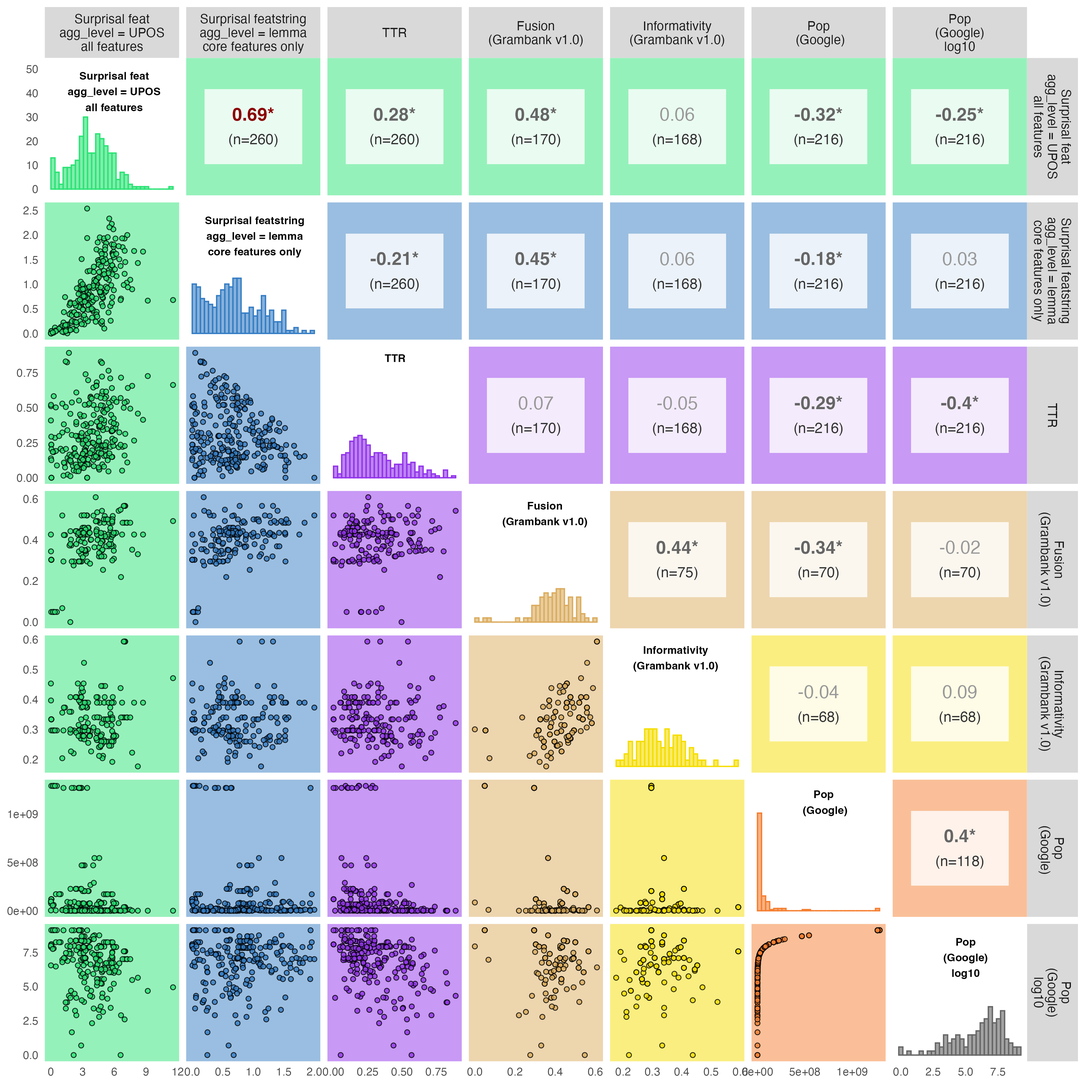
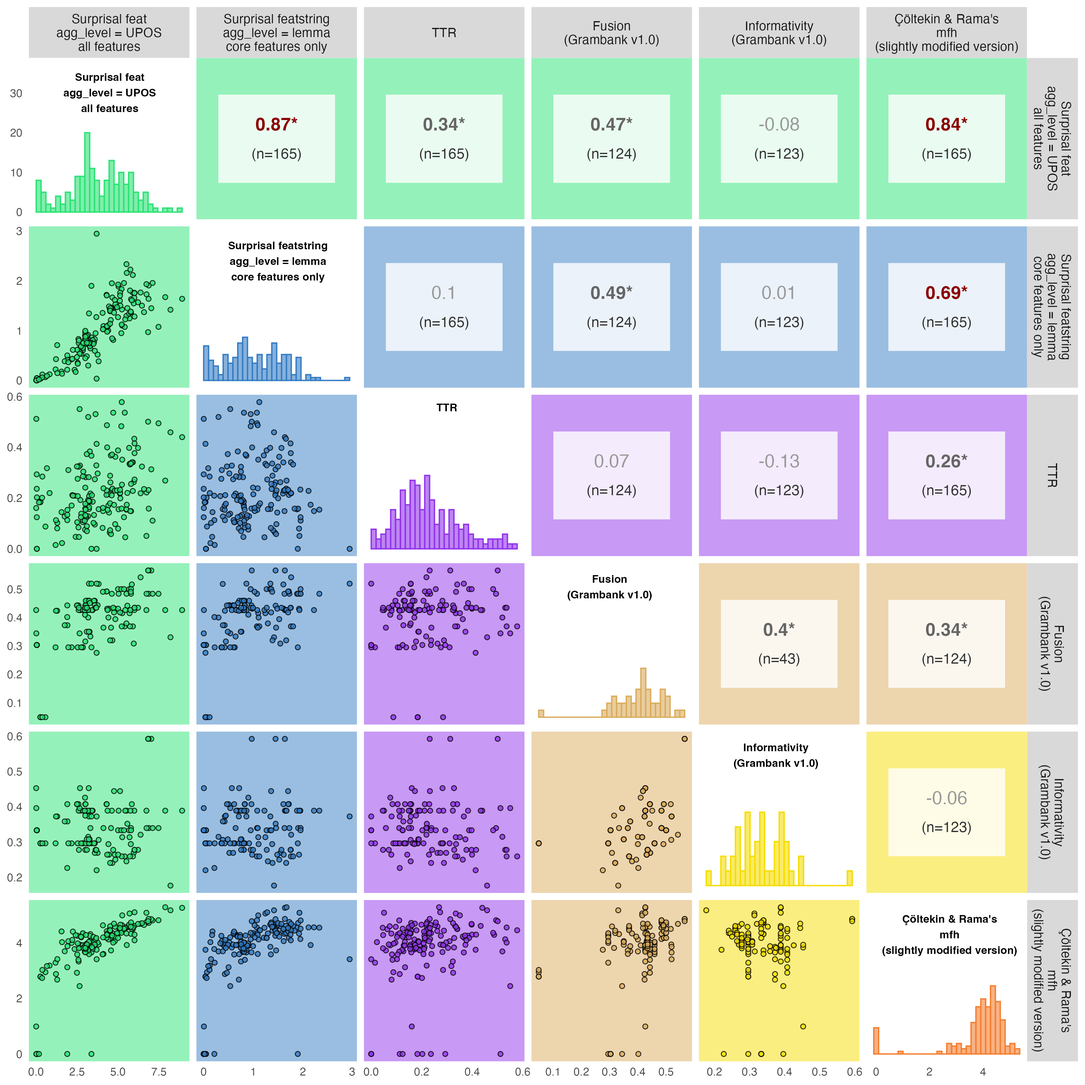
Updates from Overleaf

diff --git a/latex/main.tex b/latex/main.tex
@@ -10,9 +10,9 @@
 %to do
 % Hedvig: ridgeplots
 
-% what UD says about multivalues (Gender=Masc,Fem): "It is possible to declare that a feature has two or more values for a given word: Case=Acc,Dat. The interpretation is that the word may have one of these values but we cannot decide between them. Such multivalues should be used sparingly. They should not be used if the value list would cover the whole value space, or the subspace valid for the given language. That would mean that we cannot tell anything about this feature for the given word, and then it is preferable to just leave the feature out." 
+% what UD says about multivalues (Gender=Masc,Fem): ``It is possible to declare that a feature has two or more values for a given word: Case=Acc,Dat. The interpretation is that the word may have one of these values but we cannot decide between them. Such multivalues should be used sparingly. They should not be used if the value list would cover the whole value space, or the subspace valid for the given language. That would mean that we cannot tell anything about this feature for the given word, and then it is preferable to just leave the feature out.''
 
-% what UD says about "missing" features: "Not mentioning a feature in the data implies the empty value, which means that the feature is either irrelevant for this part of speech, or its value cannot be determined for this word form due to language-specific reasons." https://universaldependencies.org/u/overview/morphology.html
+% what UD says about `missing' features: ``Not mentioning a feature in the data implies the empty value, which means that the feature is either irrelevant for this part of speech, or its value cannot be determined for this word form due to language-specific reasons.'' https://universaldependencies.org/u/overview/morphology.html
 
 % Define fonts for non-latin characters
 \newfontfamily\Timesfont{Times New Roman}
@@ -100,15 +100,6 @@ While the English language does not have such a grammatical distinction in its p
 In S\={a}moan, the distinction is made every time ``we'' is expressed, and the grammar of S\={a}moan therefore entails a higher degree of information specificity in this particular regard.
 Conversely, there is other information that English grammar specifies which S\={a}moan does not, such as masculine/feminine gender on 3rd person pronouns.
 
-We can compare languages in terms of how much information is specified obligatorily in grammar. 
-In this paper we use cross-linguistic corpora to quantify this kind of morphological information and compare values across languages.
-While grammatical descriptions document the rules of a given language, corpora have the advantage of providing information about the frequency of different features in actual usage (cf. \citet{levshina_gradient}, Saussure's \textit{langue} and \textit{parôle} \citet{Saussure1916}).
-%%% SFM word chopping
-% For example, it is possible that a particular grammatical distinction exists in a language such that there are two alternatives, but 90\% of the time speakers just use one alternative. 
-% In an information-theoretic sense, such a distinction is less informative than one with balanced frequencies: it is easier to predict that a high-frequency alternative will occur, so its occurrence is less informative.
-%%% SFM end word chopping
-Informational distinctiveness in grammar -- both in rules and usage -- is one of the phenomena that can be described as measuring ``language complexity''.
-Before presenting our approach, we give a brief overview of research on ``language complexity'' and where this study is situated in this landscape.
 
  \section{Background: defining language complexity}\label{sec:background}
 % \subsection{``Language complexity''}
@@ -149,7 +140,7 @@ redundancy  & how much information is repeated & \cite{leufkens2023measuring}\\ 
 systematicity/ transparency  & the degree of consistency of form to meaning patterns & \cite{raviv2019larger}; \cite{hengeveld2018transparent} \\    \midrule
 regularity & the consistency of rules, for example in paradigms &  \cite{round2022cognition}‚ \cite{ackerman2009parts}; \cite{cotterell2019complexity} \\    \midrule
 compositionality  & the extent to which the meaning of larger units is built from the meanings of smaller parts &  \cite{wray2007consequences} \\    \midrule
-compressibility  & how much a computer algorithm can compress language material &  \cite{juola1998measuring} \\    \midrule
+Kolmogorov complexity  & how much a computer algorithm can compress language material &  \cite{juola1998measuring,ehret2016informationtheoretic,moscosodelpradomartin2004putting,sagot2013comparing} \\    \midrule
 ease of LLM-learning  & how easy is it for a large language model (LLM) to learn the language &  \cite{koplenig2023languages}  \\    \midrule
 length of syntactic dependencies  &  how nested the syntactical structure is (tax on short-term memory) & \cite{gibson1998linguistic}; \citet{liu2008dependency} \\    
 \midrule
@@ -160,39 +151,51 @@ shared types & the total number of population-wide shared types &  \citet{spike2
     \label{tab:complex_metrics}
 \end{table}
 
-We think these measures can be grouped into four broader categories relating to the nebulous notion of `linguistic complexity' (Fig \ref{fig:metrics_diagram}):
-%%% SFM word chopping
-% It is possible that these different measurements map onto different broader characteristics related to `language complexity'.
-% We propose that many of these measurements can be grouped into four broader categories which have different implications for specific research questions:
-%%% SFM end word chopping
-
-\begin{itemize}
-\item ease of learning the language as (one of) a child's first language(s)
-\item ease of learning as an additional language when adult
-\item ease of production for sender (`encoding complexity')
-\item ease of processing/comprehension for receiver (`decoding complexity')
-\end{itemize}
-\FloatBarrier
-
-These four categories are not usually measured directly, instead being estimated with proxy measurements derived from typological grammar surveys, corpora, experiments and simulations. 
-Fig \ref{fig:metrics_diagram} illustrates speculative connections between measurements and the four broader categories. 
-The intention here is not to provide an exhaustive or definite account of these relationships, but to illustrate the plethora of ``language complexity'' studies (cf. \citet{bentz2023complexity}) and suggest lines along which they may be organised.
 Depending on the particular research question being evaluated, it is desirable to specify what aspect of `language complexity' is being evaluated and how it is operationalised into specific measurement(s). %(``does a large proportion of second language learners reduce complexity?'', ``is language complexity primarily shaped by production or perception?'', ``do more modular networks create more complexity?'' etc), it is desirable to specify what facet of ``language complexity'' is being evaluated and how it is operationalised into specific measurement(s).
+ %\begin{enumerate}
+ %    \item More morphology -> more complexity (citations needed)
+ %    \item It is desirable to measure complexity via measuring morphology
+ %    \item What we want to measure is better measured by studying corpora rather than rules
+ %    \item Because of (2) we want to use something mathematical and (3) we use corpus
+ %\end{enumerate}
 
-\begin{figure}[ht]
-    \centering
-    \includegraphics[width=0.9\textwidth]{latex/graphics/ud_complexity_metrics.png} % Change filename and width as needed
-    \caption{Methods of quantifying language complexity, and their possible relationships with four overarching aspects which are typically not directly measured.}
-    \label{fig:metrics_diagram}
-\end{figure}
-\FloatBarrier
+A language with a rich morphology often exhibits more unique words compared to a language with less grammatical marking overall, or grammatical marking that is free-standing.
+Morphological marking is also not necessarily compositional: paradigms can include suppletion, vowel harmony and other non-compositional patterns.
+In this sense, languages with more unique word forms and richer paradigmatic patterns to learn and process instantiate one dimension of language complexity (c.f. \citet{baerman2015understanding}, \citet{bentz2016comparison}, \citet{dahl2004growth}).
+Therefore, one way to measure a facet of a language's complexity is to quantify the amount of morphology it contains.
+Many studies have contributed to this discussion by studying the grammatical rules of different languages (cf. \citet{lupyan2010language}, \citet{shcherbakova2023societies}).
+However, a language can have a rich morphological paradigm but when one studies usage it turns out several of the forms are rarely uttered.
+If all forms are not equally used, that paints a different picture of the morphology of the language compared to if we only study the possibilities and implicitly treat them as equally present.
+For example, in Spanish there are three distinctions in the demonstrative system (\emph{este}/\emph{ese}/\emph{acquel} \citet[87]{butt_2019_spanish}\footnote{This is the masculine singular series. The markers differ further for feminine, neuter and plural.}). 
+However, out of these the first two are used the most. 
+In the UD-dataset Spanish-AnCora \citep{aule2008ancora}, \emph{acquel} is used 5\% of the time, \emph{ese} 26\% and \emph{este} 69\%,.
+We find a somewhat similar situation in Turkish, where there are also three distinctions in demonstratives (\emph{bu}, \emph{şu}, \emph{o} \citet[67]{turkish_2020}\footnote{This is the nominative series. The forms differ for further cases.}). 
+In the UD-dataset Turkish-Penn, \emph{bu} accounts for 85\% of occurrences, \emph{o} 9\% and \emph{şu} 6\%.
+Spanish and Turkish can both be said to have three distinctions in their demonstrative paradigms, but usage frequencies differ between the two languages.
+This may mean that the implications for learning and processing also differ.
+Corpora have the advantage of providing information about the frequency of different features in actual usage (cf. \citet{levshina_gradient}, \citet{bentz2016comparison} Saussure's \textit{langue} and \textit{parôle} \citet{Saussure1916}) as opposed to the possibilities of the system.
+
+In this study, we focus on morphological distinctions and their distribution in corpora. 
+
+
+%We can compare languages in terms of how much information is specified obligatorily in grammar. 
+%In this paper we use cross-linguistic corpora to quantify this kind of morphological information and compare values across languages.
+%%% SFM word chopping
+% For example, it is possible that a particular grammatical distinction exists in a language such that there are two alternatives, but 90\% of the time speakers just use one alternative. 
+% In an information-theoretic sense, such a distinction is less informative than one with balanced frequencies: it is easier to predict that a high-frequency alternative will occur, so its occurrence is less informative.
+%%% SFM end word chopping
+Informational distinctiveness in grammar -- both in rules and usage -- is one of the phenomena that can be described as measuring ``language complexity''.
+Before presenting our approach, we give a brief overview of research on ``language complexity'' and where this study is situated in this landscape.
+
+
+
 
 The present study lays the ground for a wider investigation of how systematic pragmatic habits, over time and over language communities, can impact the structure of the language.
 %%% SFM word chopping
 % In particular, we are interested in informational distinctiveness, and the other side of the coin - ambiguity.
 %%% SFM end word chopping
-Several studies have sought to link sociocultural and demographic features with the various facets of linguistic complexity \citep{wray2007consequences,lupyan2010language,shcherbakova2023societies,dale_lupyan_2012}.
-We are interested in exploring how systematic corpus-based cross-linguistic comparison of morphology can contribute to testing the strength of hypotheses relating to pragmatics of common ground \citep{hall1976beyond,cardon2008critique,bentz2015adaptive, meyer2016culture, levinson2024dark}.
+%Several studies have sought to link sociocultural and demographic features with the various facets of linguistic complexity \citep{wray2007consequences,lupyan2010language,shcherbakova2023societies,dale_lupyan_2012}.
+%We are interested in exploring how systematic corpus-based cross-linguistic comparison of morphology can contribute to testing the strength of hypotheses relating to pragmatics of common ground \citep{hall1976beyond,cardon2008critique,bentz2015adaptive, meyer2016culture, levinson2024dark}.
 To that end, in this paper we define metrics of informational distinctiveness of morphological features based on datasets of the Universal Dependencies project \citep{UD_2.14}. 
 
 %%%%%%%%%%%%%%%%%%%%%%%%%%%%%%%%%%%%%
@@ -231,14 +234,18 @@ To that end, in this paper we define metrics of informational distinctiveness of
 % For a thorough examination of the relationships between these metrics of `language complexity' and social conditions, more extensive analysis is necessary.
 
 %In this paper, we are primarily interested in the pragmatics of information transfer between adult native speakers and how the trade-off between the encoding and decoding cost is balanced in different languages. Specifically, we are interested in how languages vary with respect to morphological information.
+\FloatBarrier
 
 
 \FloatBarrier
 \section{Study outline}
 We aim to quantify the information in morphology annotations in corpora as a way of assessing how much information languages typically encode.
 An increase in morphological information can be understood as increasing the difficulty of production for the sender, and thereby increasing one facet of `language complexity'.
+We therefore aim to capture the amount of morphological information a language encodes in its words, on average.
+Our metric, described in section \ref{detailed_procedure} and defined precisely in Appendix \ref{sec:appendix_ours}, captures the amount of information carried by morphological features across approximately 70 languages spanning 170 datasets from the Universal Dependencies corpora collection v2.14 (UD) \citep{UD_2.14}.
+Annotated corpora yield a measure of morphological information per language, which serves as a proxy for speaker difficulty, which is one aspect of language complexity.
 
-Many corpora collections, such as the Universal Dependencies datasets v2.14 \citep{UD_2.14} which are used here, contain information on the morphology of individual words. 
+Many corpora collections such as UD contain information on the morphology of individual words. 
 Table \ref{tab:turkish_example} is an example of a sentence in Turkish where words are marked for the morphological categories case, number, person, aspect and more \citep{kuzgun_2020_UD_turkish_penn}.
 %For example, the word ``horses'' in English would typically be tagged for the grammatical meaning ``plural'' being encoded morphologically.
 
@@ -371,6 +378,11 @@ Their work can therefore be seen as a step towards the kind of measure defined b
 
 \subsection{Overview of our metrics}
 \label{detailed_procedure}
+
+An in-depth comparison of our metric with that of \citet{ccoltekin2023complexity}, including justifications for each aspect in which our measure differs from theirs, can be found in Appendix 
+\ref{sec:appendixComparison}.
+Here we give an overview, describing and justifying two key differences.
+
 \citet{ccoltekin2023complexity} use entropy as their measure.
 Technically entropy is itself the average surprisal of all events in an entire distribution.
 %%% SFM word chopping
@@ -458,8 +470,7 @@ The full procedure of our basic metric can be found in appendix \ref*{sec:append
 %%% SFM above moved to appendix %%%
 %%%%%%%%%%%%%%%%%%%%%%%%%%%%%%%%%%%
 
-Our approach differs in several ways from that of Çöltekin \& Rama.
-First, we do not omit tokens that have no morphological features.
+The first key difference between Çöltekin \& Rama's metric and ours is that we do not omit tokens that have no morphological features.
 Instead, we introduce a dummy feature value `unassigned' for those tokens that do not have an assigned value for each morphological feature associated with that token's lemma.
 %%% SFM word chopping
 % For example, the determiner token `para' in the dataset described by Table \ref{tab:unassigned_ex} has no morphological feature corresponding to the category Definite.
@@ -471,9 +482,9 @@ Without the dummy assignment this fact would be lost: the 1\% of Definite=Ind to
 
 A second key difference with Çöltekin \& Rama is as follows.
 Instead of calculating the average surprisal of features across the entire sample of tokens, we split features into their component category/value pairs, and calculate the sum of the surprisals of feature values for a given token.
-This produces what might be thought of as `the surprisal of the token': the amount of information a token carries by virtue of its morphological feature markings or lack thereof.
+This produces what might be thought of as `the morpho-surprisal of the token': the amount of information a token carries by virtue of its morphological feature markings or lack thereof.
 Once we have a measure of surprisal per token, we can average this across the entire dataset to obtain mean surprisal per token.
-This indicates `the surprisal of the language': how surprising tokens of this language tend to be.
+This indicates `the morpho-surprisal of the language': how surprising the morphology of tokens in this language tend to be.
 If there are very many morphological features whose values are all somewhat evenly represented among the tokens of the dataset, mean surprisal will be high.
 If on the other hand each lemma has only a few features, or if a small number of feature values are much more likely than others, mean surprisal will be small.
 
@@ -598,7 +609,7 @@ First, we consider the relationship between the new metrics defined in this pape
 Figures \ref{fig:SPLOM_custom_metrics} and \ref{fig:SPLOM_custom_metrics_PUD} show the relationship between the eight measurements we calculate, for all datasets and for PUD datasets only. 
 % The measures are calculated separately for individual features and combinations of features (``featstring''), for aggregation levels UPOS and lemma, and with all features or just the core features.
 % With three binary distinctions (feat vs featstring, UPOS vs lemma, core vs all features), we have eight different measures. 
-Most of these correlate strongly with each other, suggesting that while they differ in specific implementation they are picking up on the same characteristics of the datasets (and thereby languages) in question. 
+Most of these correlate strongly with each other, suggesting that while they differ in specific implementation they are picking up on the same characteristics of the datasets (and thereby languages) in question.\footnote{A reviewer rightly pointed out that one cannot infer from a correlation between two variables that both are tracking the same underlying characteristic. For example, age and wage are correlated but do not track any single property in a population. Here we are relying on the fact that each of our metrics is defined in terms of the same formula, applied to the same datasets, but with variations in implementation. The relatively strong correlations between these implementations demonstrate, we think, that there is a general property of each dataset -- what we have described as the `morpho-surprisal' -- that each specific implementation is capturing an aspect of. It is as though we were to use several variants on the definition of `income' (gross wage, net wage, disposable income, etc.) and note that they are correlated because each captures some aspect of a more general property (`income' considered as an abstract kind, without specifying a precise formulation).} 
 The correlations are even stronger if we consider only the PUD-subset of UD (Figure \ref{fig:SPLOM_custom_metrics_PUD}), indicating that the variation among the full complement of datasets is partly due to genre.
 
 \begin{figure}
@@ -780,7 +791,7 @@ Their method of calculating this value is as follows:\footnote{This procedure de
 
 \noindent Table \ref{tab:mfh} shows the components of the entropy measure for the sample of tokens listed in Table \ref{tab:turkish_example}.
 The total entropy for this sample is approximately 3.15 bits.
-In their study \citet{ccoltekin2023complexity} would sample something like 1000 tokens at a time, generating an entropy measure each time and then taking the average.
+In their study \citet{ccoltekin2023complexity} sample (with replacement) 20,000 tokens 100 times, generating an entropy measure each time and then taking the average.
 This average is then an estimate of the `overall' entropy measure for the dataset.
 
 \begin{table}[h]
@@ -812,11 +823,12 @@ This average is then an estimate of the `overall' entropy measure for the datase
 
 The full procedure of our metric is as follows:
 \begin{enumerate}
-\item Combine the files of each UD dataset (e.g. dev, test and train) to one table with one token per row
+\item Collapse the files of each UD dataset (e.g. dev, test and train) to one table with one token per row
 \item Remove punctuation (UPOS=`PUNCT') and unanalysable tokens (UPOS=`X')\footnote{For more on UPOS X, please see \href{https://universaldependencies.org/u/pos/X.html}{https://universaldependencies.org/u/pos/X.html}}.\footnote{During development, we also tested filtering out tokens that are tagged as UPOS=`SYM' or that only consist of certain symbols such as \%. However, we found that these were not consistently treated across datasets, so excluding these tokens impaired comparability. We opted instead the same approach as \citet{ccoltekin2023complexity} and filtering out only the most obviously irrelevant tokens.}
-\item Remove empty nodes. UD allows the insertion of tokens that are not present in the surface sentence in order to facilitate certain kinds of syntactic analysis. For example, the insertion of ``likes'' between ``Bill'' and ``tea'' in the sentence ``Sue likes coffee and Bill tea''. We drop these tokens from our analysis as we want to analyse the surface form as closely as possible. \footnote{For more details on empty nodes in UD, see \href{https://universaldependencies.org/format.html?utm_source=chatgpt.com#words-tokens-and-empty-nodes}{https://universaldependencies.org/format.html?utm_source=chatgpt.com#words-tokens-and-empty-nodes}}
-\item Resolve multi-word tokens. Some datasets will split tokens which are taken as representing multiple words into separate tokens. For example contractions such as: ``don't'' in English could be split into ``do'' and ``n't''. Separate words that belong to a multi-word token (e.g. ``do'' and ``n't'') will be included as separate tokens and marked for syntactic dependencies, part-of-speech (UPOS), lemma and morphological features, but the multiword token (e.g. ``don't) will not. In this project, we want to analyse the surface forms - therefore we are re-assigning the annotations to the multi-word (e.g. ``don't'') and removing the component words (e.g. ``do'' and ``n't''). This may also be beneficial for comparability as multi-words may represent highly grammaticalised items that may be treated differently across datasets (sometimes split, sometimes not). By not analysing them further, we may be avoiding issues of uneven level of granularity of analysis. \footnote{For more details on multi-word tokens in UD, see \href{https://universaldependencies.org/format.html?utm_source=chatgpt.com#words-tokens-and-empty-nodes}
-\item Missing lemmas are replaced by the token.  There is variation in how datasets of UD treat certain tokens in terms of defining or not defining a lemma. For example, many proper nouns (PROPN) or adpositions (ADP) will lack a lemma annotation. Some datasets, like Arabic-NYUAD, leave the lemma field empty for most tokens with the UPOS ADP or PROPN or whereas others such as . 
+\item Remove empty nodes. UD allows the insertion of tokens that are not present in the surface sentence in order to facilitate certain kinds of syntactic analysis. For example, the insertion of ``likes'' between ``Bill'' and ``tea'' in the sentence ``Sue likes coffee and Bill tea''. We drop these tokens from our analysis as we want to analyse the surface form as closely as possible. 
+%\footnote{For more details on empty nodes in UD, see \href{https://universaldependencies.org/format.html?utm_source=chatgpt.com#words-tokens-and-empty-nodes}{https://universaldependencies.org/format.html?utm_source=chatgpt.com#words-tokens-and-empty-nodes}}
+\item Resolve multi-word tokens. Some datasets will split tokens which are taken as representing multiple words into separate tokens. For example contractions such as: ``don't'' in English could be split into ``do'' and ``n't''. Within the UD-project separate words that belong to a multi-word token (e.g. ``do'' and ``n't'') can be included as separate tokens and marked for syntactic dependencies, part-of-speech (UPOS), lemma and morphological features. If that schema is applied, then the multiword token (e.g. ``don't) is unmarked for the same annotations. In this project, we want to analyse the surface forms - therefore we are re-assigning the annotations to the multi-word (e.g. ``don't'') and removing the component words (e.g. ``do'' and ``n't''). This may also be beneficial for comparability as multi-words may represent highly grammaticalised items that may be treated differently across datasets (sometimes split, sometimes not). By not analysing them further, we may be avoiding issues of uneven level of granularity of analysis.\footnote{For more details on multi-word tokens in UD, see \href{https://universaldependencies.org/format.html\#words-tokens-and-empty-nodes}{https://universaldependencies.org/format.html\#words-tokens-and-empty-nodes}.}
+\item Missing lemmas are replaced by the token.  There is variation in how datasets of UD treat certain tokens in terms of defining or not defining a lemma. For example, many proper nouns (PROPN) or adpositions (ADP) will lack a lemma annotation. Some datasets, like Arabic-NYUAD, leave the lemma field empty for most tokens where UPOS is ADP or PROPN. Conversely, in UD\_Greek-GUD all items of the same UPOS values have a defined lemma (majority of the time identical to the token). To normalise for our comparison, we replace missing lemmas with the content in the token field.
 \item Remove datasets with less than 13,000 tokens.
 \item Define lemmas as a combination of lemma + UPOS, so that lemmas that are spelled the same but belong to different UPOS can be distinguished. \textit{Example:} the noun ``mark'' and the verb ``mark'' in English are defined as having the lemmas ``mark\_NOUN'' and ``mark\_VERB'' as opposed to both potentially being assigned to the same lemma ``mark''.
 \item Determine the full set of morphological feature categories per lemma. \textit{Example:} the token `sebuah' in Table \ref{tab:unassigned_ex} has features Definite and PronType; supposing there were another token of the same lemma in the dataset that had a value for the category Number, then the full set of categories for `sebuah' would be Definite, Number and PronType.
@@ -890,6 +902,9 @@ ADJ & akhir	&terakhir&	NumType & unassigned & 4 & 0.333\\
 \end{tabular}
 \end{table}
 
+
+
+
 \subsection{Calculation of Grambank metrics}\label{sec:appendix_rgrambank}
 
 The calculation of Fusion and Informativity from raw Grambank data is somewhat involved.
@@ -901,6 +916,70 @@ See example scripts accompanying the R-package rgrambank for illustration of pro
 Unlike \cite{shcherbakova2023societies}, but like \cite{grambank_release} we use the version of the Grambank metric Fusion which awards features that cover bound morphology and other morphology half a Fusion-point.
 
 \FloatBarrier
+
+\section{Comparison of metrics}\label{sec:appendixComparison}
+
+Several reviewers asked for a detailed comparison between our metric and that of \citet{ccoltekin2023complexity} (C\&R).
+Here we list all the differences of which we are aware.
+In each case we believe our methodology is an improvement and we indicate exactly how.
+
+\subsection{C\&R remove all empty lemmas and tokens; we don't}
+
+C\&R remove tokens whose lemma is empty or whose token is empty.
+However, some tokens are empty because their lemma is understood to be identical to the token.
+We treat these cases as genuine tokens. 
+As a result, there are datasets for which C\&R's morphological feature entropy is calculated as zero but which have appreciable complexity by our metric. 
+Examples of these are EXAMPLES, as can be seen in the results SPLOMS (REF TO FIGURES).
+
+\subsection{C\&R remove numbers; we don't}
+
+C\&R remove tokens whose UPOS is NUM and which are non-alphabetical.
+This means they remove some tokens that are in fact tagged for morphological features. 
+For example, in UD\_Chinese-GSDSimp there are tokens such as `50\%' whose morphological feature list has a value `NumType=Card', contrasting with other NUM tokens with feature values `NumType=Ord'. 
+We include these in order to avoid artificially restricting the kinds of tokens whose morphological features are involved in the calculation of the metric. 
+
+One might ask: why not remove the numbers? 
+Perhaps NumType=Ord is not the kind of feature we want to include? 
+But that raises the question of which feature categories `genuinely' contribute to the kind of complexity we are estimating. 
+We have avoided that question here, instead removing only those parts of speech that clearly play no role in morphological complexity e.g. punctuation.
+
+\subsection{C\&R sample; we use the entire dataset}
+
+C\&R sample 20,000 tokens (with replacement) 100 times per dataset, yielding an average value for morphological feature entropy.
+Their justification is that this aids comparability: two datasets, one with 50,000 tokens and the other with 1.5 million, would yield different orders of magnitude of datapoints for analysis. 
+To ensure all datasets provide the same amount of data, a common sampling of this kind is required.
+
+Whether or not this justification is appropriate for their other metrics, it does not hold for morphological feature entropy.
+Entropy is an average across an entire dataset, yielding a value whose units are surprisal per feature.
+Sampling with replacement simply produces an approximation to the value that would be obtained by calculating the metric over the entire dataset.
+This is true regardless of the dataset's size.
+
+What is more, because the metric is an average, it remains comparable even across datasets, no matter the difference in their sizes.
+So long as the dataset is representative of the language from which it is drawn, calculating the entropy across the whole dataset is the best estimate for the entropy of the language as a whole.
+For these reasons, in our analysis we report mean feature entropy calculated over the entire dataset.
+
+Of course, some datasets are too small too plausibly be representative.
+That is why both we and C\&R exclude datasets with too few tokens from our analyses.
+
+
+\subsection{C\&R ignore unmarked features; we include them}
+
+We introduce a dummy value `unassigned' for tokens which (a) lack a particular morphological feature, and (b) belong to a category in which other tokens possess a determinate value for that feature.
+This is important because the absence of a feature can carry information, namely that this token does not have this feature. 
+As a result, on average our estimates of entropy would be higher than those of C\&R [though they aren't perfectly commensurate for other reasons.]
+
+\subsection{C\&R group features across all tokens; we categorise by lemma/UPOS}
+
+C\&R calculate the average surprisal of features across ALL tokens, whereas we group by (a) UPOS and (b) lemma.
+Our grouping approach captures the rationale for operationalising speaker complexity in terms of informational measures: a speaker is not faced with the problem of determining, for some unspecified word, what its feature category/value pairs might be; rather, given a lemma representing the particular concept the speaker wants to express, they must determine which features are typically (or obligatorily) incorporated in whatever lexical form will express that lemma in the current context. 
+As it were, instead of casting around the entire lexicon for the right inflection, the speaker has to `search' only the variants of the current lemma (or, in the UPOS condition, all lemmas of this part of speech).
+
+\subsection{Summary}
+
+One might think that points 1-2 here are arguments in favour of our method of preprocessing rather than our metric.
+Only point 5 is about the metric proper, while point 3 concerns whether the metric is estimated or calculated in full, and 4 is a question of application or interpretation (i.e. how the metric should be applied to tokens without values for particular feature categories). 
+Very well: we think that all five points count in favour of our overall approach, while point 5 specifically justifies using our metric instead of C\&R's mean feature entropy. 
+We think this provides sufficient ground for the present study, especially given we are able to extend our analysis to TODO datasets compared to C\&R's TODO.
 
 \section{Caveats}
 \label{sec:caveats}
